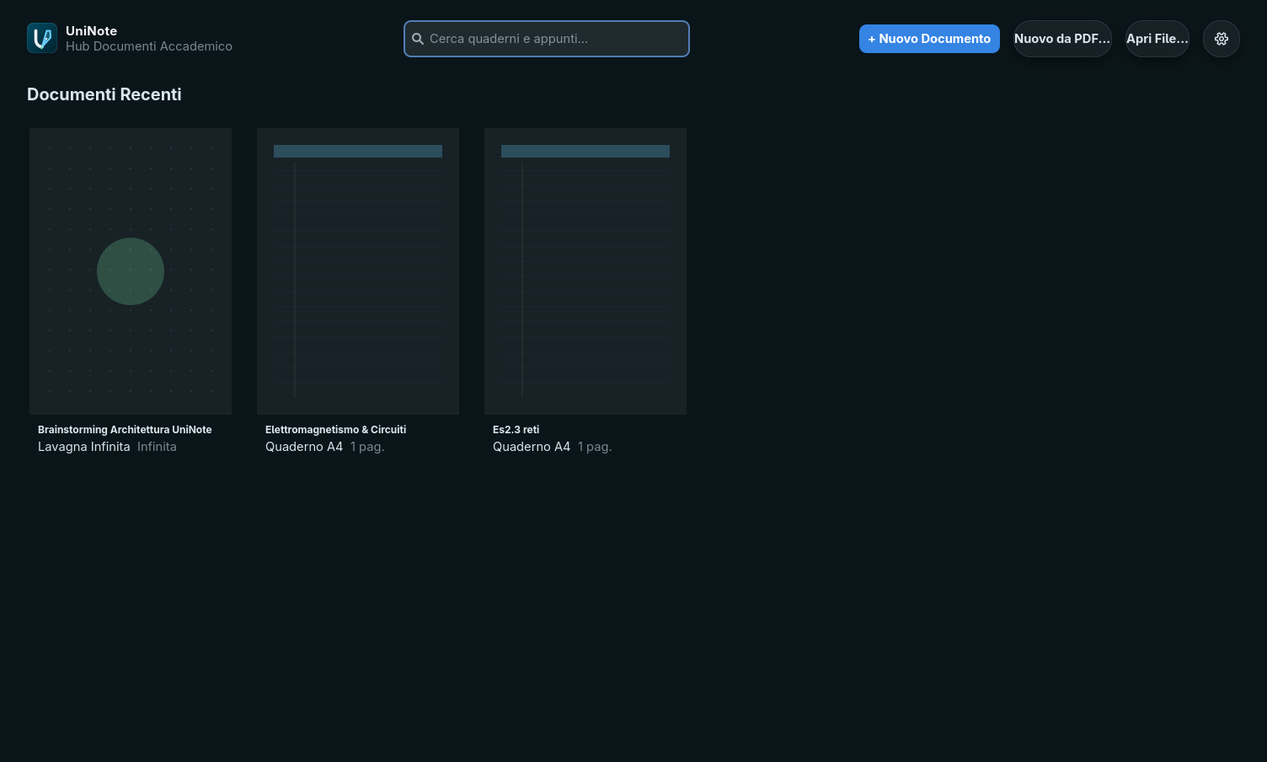
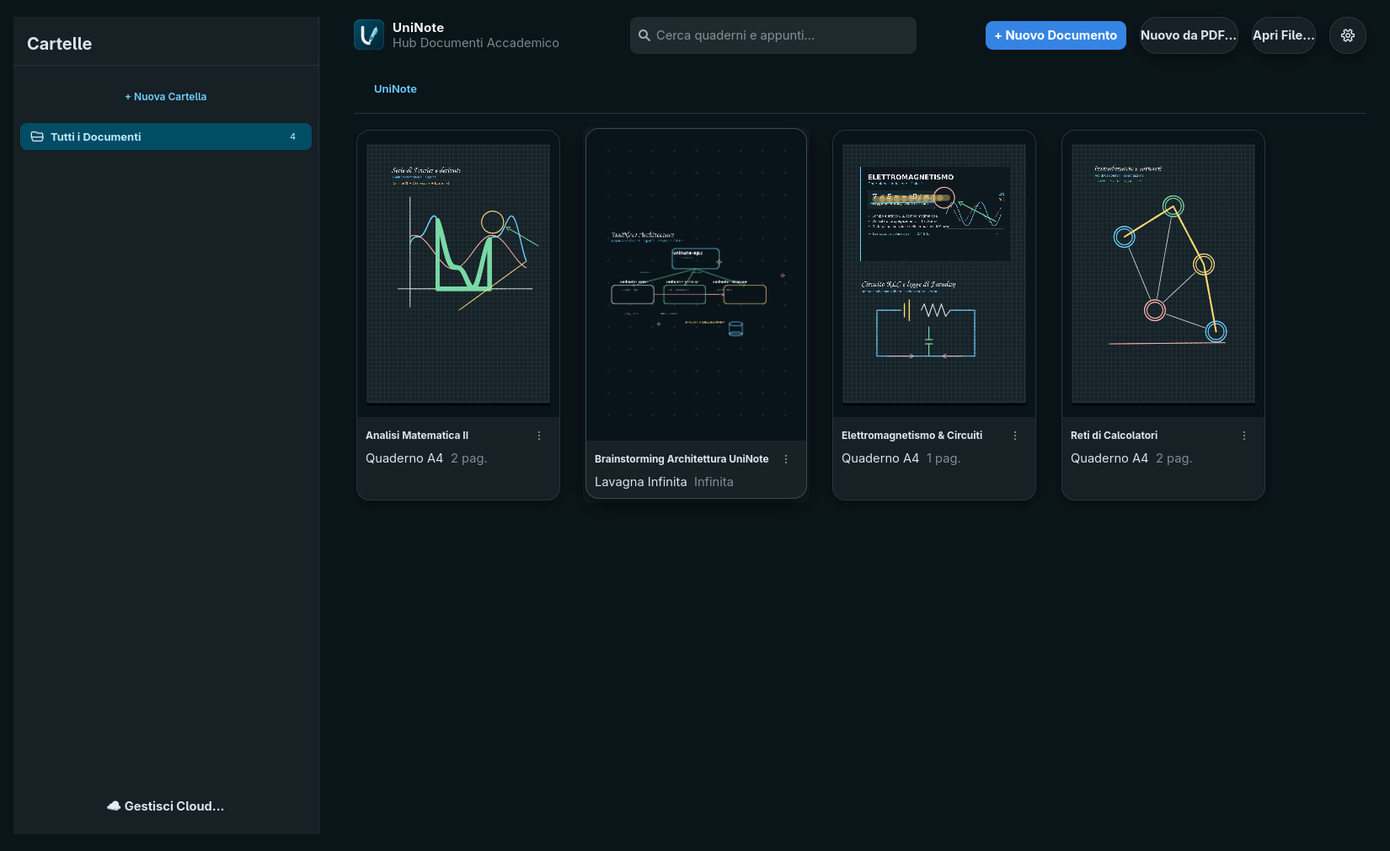
docs(readme): allinea documentazione e screenshot alla v0.5.2

diff --git a/README.md b/README.md
@@ -6,7 +6,7 @@
 
 **An Academic Freehand Note-Taking & Vector PDF Slide Annotation Suite for Linux**
 
-![License: GPL-3.0](https://img.shields.io/badge/License-GPL--3.0-blue.svg)![Rust](https://img.shields.io/badge/Rust-2021_Edition_\(MSRV_1.80+\)-orange.svg?logo=rust)![GUI](https://img.shields.io/badge/GUI-GTK4_%26_Libadwaita-4a90e2.svg?logo=gnome)![Version](https://img.shields.io/badge/Version-0.5.0-teal.svg)![Arch Linux](https://img.shields.io/badge/Arch_Linux-uninote-blue.svg?logo=archlinux)![Flatpak](https://img.shields.io/badge/Flatpak-org.uninote.UniNote-2b7bb9.svg?logo=flatpak)![CI](https://github.com/Loreexe/UniNote/actions/workflows/ci.yml/badge.svg)![Wayland](https://img.shields.io/badge/Display-Wayland_Native-purple.svg)![Architecture](https://img.shields.io/badge/Architecture-4_Decoupled_Crates-success.svg)
+![License: GPL-3.0](https://img.shields.io/badge/License-GPL--3.0-blue.svg)![Rust](https://img.shields.io/badge/Rust-2021_Edition_\(MSRV_1.80+\)-orange.svg?logo=rust)![GUI](https://img.shields.io/badge/GUI-GTK4_%26_Libadwaita-4a90e2.svg?logo=gnome)![Version](https://img.shields.io/badge/Version-0.5.2-teal.svg)![Arch Linux](https://img.shields.io/badge/Arch_Linux-uninote-blue.svg?logo=archlinux)![Flatpak](https://img.shields.io/badge/Flatpak-org.uninote.UniNote-2b7bb9.svg?logo=flatpak)![CI](https://github.com/Loreexe/UniNote/actions/workflows/ci.yml/badge.svg)![Wayland](https://img.shields.io/badge/Display-Wayland_Native-purple.svg)![Architecture](https://img.shields.io/badge/Architecture-4_Decoupled_Crates-success.svg)
 
 [Screenshots](#-screenshots--interface-showcase) •
 [Packaging & Install](#-packaging--quick-install) •
@@ -23,15 +23,17 @@
 
 **UniNote** is a native, high-performance Linux desktop application engineered specifically for university STEM lectures, mathematical derivations, academic research, and engineering design. Built from the ground up in **Rust (2021 Edition)**, **GTK 4 (v4.10+)**, **Libadwaita (0.7)**, and **Cairo**, UniNote bridges the divide between modern high-frequency digitizer hardware (Microsoft Pen Protocol 2.0/2.5, ELAN digitizers on 2-in-1 laptops, Wacom EMR/AES tablets) and the modern Linux Wayland desktop (Niri, GNOME, Sway, Hyprland).
 
-Unlike conventional note-taking suites that rely on heavy Electron/Chromium runtimes or lossy raster bitmap canvases, UniNote maintains an uncompromising **pure vector pipeline**:
+Unlike conventional note-taking suites that rely on heavy Electron/Chromium runtimes or lossy raster bitmap canvases, UniNote maintains an uncompromising **pure vector stroke pipeline** (raster storage is used only for explicitly pasted screenshots):
 
-- **120Hz Sub-Millisecond Inking Engine**: Predictive centripetal Catmull-Rom splines converted analytically to piecewise cubic Bézier curves, paired with an adaptive One Euro ($1€$) filter and dynamic pressure width synthesis.
+- **120Hz Sub-Millisecond Inking Engine**: Centripetal Catmull-Rom splines converted analytically to piecewise cubic Bézier curves, paired with an adaptive One Euro ($1€$) filter, zero-allocation Bézier caching, and dynamic pressure width synthesis.
 - **Hardware-Calibrated Digitizer Protection**: Strict physical impact latching (`pending_down`), instantaneous anti-hover cutoff upon stylus liftoff, capacitive blip rejection ($<0.065$ pressure peak), and a 4-state palm rejection machine with automatic proximity decay.
-- **Infinite Whiteboard & Discrete Metric A4 Notebooks**: Unbounded Cartesian $(-\infty, +\infty)$ ideation with dynamic procedural zoom-adaptive grid alongside calibrated A4 notebooks (Warm Natural White, 8mm Ruled with margin, 5mm Metric Grid).
+- **Infinite Whiteboard & Discrete Metric A4 Notebooks**: Unbounded Cartesian $(-\infty, +\infty)$ ideation with dynamic procedural zoom-adaptive grid alongside calibrated A4 notebooks (Warm Natural White, 8mm Ruled with margin, 5mm Metric Grid), continuous zoom from $25\%$ to $1000\%$.
 - **University PDF Document Flow**: Native non-destructive slide and handout annotation via `poppler-glib` with a dual-tier 120Hz Cairo cache (< 200 µs blit time) and typographic multi-page vector export via `cairo::PdfSurface`.
-- **Spatial Selection & Geometric Synthesis**: Freehand polygonal lasso and rectangular marquee with Ray-Casting containment, real-time 120Hz interactive drag translation, and atomic undo/redo commands.
-- **Crash-Resilient Storage**: Embedded SQLite 3 in Write-Ahead Logging (`WAL`) mode with asynchronous background thread persistence and single-file consolidated backup export via the SQLite Online Backup API.
-- **Dank Material Shell (DMS) / Material You (M3) Interface**: Full-bleed floating island UI with adaptive dark/light theme switching, Matugen vibrant color token synchronization, and pure vector Cairo iconography.
+- **Spatial Selection, Images & Geometric Manipulation**: Freehand lasso and rectangular marquee accelerated by a 2D R*-Tree, 8 interactive resize handles, affine scale/rotate, copy/cut/paste, and pasted PNG screenshots stored as hash-addressed `ItemKind::Image`.
+- **Eraser, Laser Pointer & Atomic Editing**: Analytical Bézier–circle stroke slicing with per-gesture undo batching, plus a volatile laser pointer whose plasma trail dissolves in 1.2 s without touching Undo/Redo, SQLite, or PDF export.
+- **Crash-Resilient Storage**: Embedded SQLite 3 in Write-Ahead Logging (`WAL`) mode with Schema V3 (`assets` hash-addressed table), asynchronous background thread persistence, prepared statements, and single-file consolidated backup export via the SQLite Online Backup API.
+- **Dashboard, Local Cloud Folders & Desktop Actions**: Folder sidebar with real filesystem subfolders, drag & drop between folders, Cairo thumbnails, instant search, local Nextcloud/Google Drive folders without credentials, and `--new-notebook` / `--new-whiteboard` launcher actions.
+- **Dank Material Shell (DMS) / Material You (M3) Interface**: Full-bleed floating island UI with adaptive dark/light theme switching, Matugen vibrant color token synchronization, dynamic pen dock, 5-tab Adwaita preferences, and pure vector Cairo iconography.
 
 ---
 
@@ -41,18 +43,23 @@ Unlike conventional note-taking suites that rely on heavy Electron/Chromium runt
 
 ### 1. Hub Accademico & Dashboard Documenti
 
-*Visualizzazione a schede con miniature Cairo vettoriali, ricerca istantanea e azioni rapide di creazione.*<br />
+*Sidebar cartelle, card con miniature Cairo vettoriali, ricerca istantanea, spostamento file e azioni rapide di creazione.*<br />
 <img src="docs/screenshots/01_dashboard.png" alt="UniNote Dashboard" width="90%" />
 
-### 2. Quaderno A4 Standard
+### 2. Quaderno A4, Slide PDF e Screenshot
 
-*Inchiostrazione fluida a 120Hz con spline Catmull-Rom, evidenziatore uniforme a passata singola e isola strumenti Dank Material Shell.*<br />
+*Inchiostrazione fluida a 120Hz con spline Catmull-Rom, evidenziatore, forme geometriche, annotazioni su slide e screenshot incollati come asset hash-addressed.*<br />
 <img src="docs/screenshots/02_quaderno.png" alt="UniNote Quaderno A4" width="90%" />
 
 ### 3. Lavagna Infinita
 
-*Spazio cartesiano continuo* $(-\infty, +\infty)$*, griglia procedurale dinamica e pulsante di ricentratura rapida all'origine.*<br />
+*Spazio cartesiano continuo* $(-\infty, +\infty)$*, griglia procedurale dinamica, diagrammi a più colori e pulsante di ricentratura rapida del contenuto.*<br />
 <img src="docs/screenshots/03_lavagna_infinita.png" alt="UniNote Lavagna Infinita" width="90%" />
+
+### 4. Impostazioni a 5 Schede & Scheda GitHub
+
+*Preferenze Adwaita per Hardware MPP, Aspetto DMS, Strumenti, Scorciatoie e GitHub, con opzioni avanzate, preset stilo e verifica aggiornamenti.*<br />
+<img src="docs/screenshots/04_impostazioni.png" alt="UniNote Impostazioni" width="78%" />
 
 </div>
 
@@ -64,16 +71,22 @@ UniNote is organized as a Cargo virtual workspace consisting of **four decoupled
 
 ```
 UniNote/
-├── Cargo.toml                      # Workspace manifest (Rust 2021, GPL-3.0, Version 0.2.1)
+├── Cargo.toml                      # Workspace manifest (Rust 2021, GPL-3.0, Version 0.5.2)
 ├── LICENSE                         # Verbatim GNU General Public License v3.0
+├── README.md                       # This document
+├── data/                           # FreeDesktop XDG assets (.desktop, metainfo, MIME, hicolor icons)
+├── packaging/                      # AUR recipes, Flatpak manifest and release-notes/vX.Y.Z.md
+├── scripts/                        # Icon generation and Arch/Flatpak packaging helpers
+├── docs/                           # README branding and application screenshots
+├── .github/workflows/              # CI (fmt, clippy, headless tests) and release pipeline
 ├── design/                         # Dank Material Shell (DMS) UI/UX prototyping (FigCraft)
 │   ├── uninote.figcraft            # Native vector UI design document
 │   └── previews/                   # 2x HiDPI preview renders
 └── crates/
-    ├── uninote-core/               # Mathematical document model & coordinate spaces
-    ├── uninote-stroke/             # Inking physics, filtering, palm rejection & selection
-    ├── uninote-storage/            # SQLite WAL persistence & asynchronous worker
-    └── uninote-app/                # GTK4/Libadwaita shell, Cairo canvas, PDF & DMS UI
+    ├── uninote-core/               # Document model, R*-Tree spatial index, viewport and atomic commands
+    ├── uninote-stroke/             # Catmull-Rom/Bézier geometry, filters, palm rejection, slicing, selection
+    ├── uninote-storage/            # SQLite WAL persistence (Schema V3 + assets) and asynchronous worker
+    └── uninote-app/                # GTK4/Libadwaita shell, Cairo canvas, PDF, images, dashboard & settings
 ```
 
 ### Data Flow & Component Topology
@@ -84,9 +97,10 @@ UniNote/
 |                               (uninote-app)                                   |
 |  - GtkApplication / Libadwaita (DMS Floating Islands & Matugen Tokens)        |
 |  - 120Hz Continuous Cairo Canvas & Procedural Zoom-Adaptive Whiteboard Grid   |
-|  - Academic Dashboard (GtkFlowBox Grid, Cairo Thumbnails 240x340 px)          |
-|  - Multi-Tab Settings Window (AdwPreferencesWindow: Hardware, DMS, Shapes)    |
-|  - Poppler PDF Engine (Dual-Tier Cache, Sharpness at Rest, Vector PDF Export) |
+|  - Executive R*-Tree Culling (>90% off-screen) & Zero-Alloc Bézier Rendering  |
+|  - Academic Dashboard (Folder Sidebar, GtkFlowBox, Cairo Thumbnails 240x340)  |
+|  - 5-Tab Settings Window (Hardware MPP, DMS, Tools, Shortcuts, GitHub)        |
+|  - Poppler PDF Engine, Image Cache and Volatile LaserTrail                    |
 +---------------------------------------+---------------------------------------+
                                         |
                 +-----------------------+-----------------------+
@@ -98,8 +112,9 @@ UniNote/
 |    (Notebook A4 / Whiteboard) |               |  - One Euro Filter (1€)       |
 |  - Continuous Viewport & Pan  |               |  - Palm Rejection Machine     |
 |  - Affine Coordinate Spaces   |               |  - MPP Anti-Hover & Anti-Blip |
-|  - Monotonic Atomic Commands  |               |  - Perfect Shape Synthesis    |
-|    (DocCommand::MoveItems)    |               |  - SelectionEngine (Ray-Cast) |
+|  - R*-Tree PageSpatialIndex   |               |  - Analytical Bézier Slicing  |
+|  - Atomic Commands (Move,     |               |  - Perfect Shape Synthesis    |
+|    Paste, Transform, Slice)   |               |  - SelectionEngine (Ray-Cast) |
 +---------------+---------------+               +---------------+---------------+
                 |                                               |
                 +-----------------------+-----------------------+
@@ -108,9 +123,9 @@ UniNote/
 +-------------------------------------------------------------------------------+
 |                                uninote-storage                                |
 |  - SQLite 3 Engine (WAL Mode, synchronous = NORMAL, busy_timeout = 5000)      |
-|  - Schema V2 (Background Extra, Metadata Format, Document Format Migration)   |
-|  - Dedicated Background Thread Worker (Non-blocking Graphics Pipeline)        |
-|  - SQLite Online Backup API for Atomic Consolidated .uninote Exports          |
+|  - Schema V3 (assets hash-addressed, metadata, V1→V3 migrations)              |
+|  - Prepared Statements, Buffer Reuse & Immediate Transactions                 |
+|  - Dedicated Background Worker + Online Backup API for .uninote Exports       |
 +-------------------------------------------------------------------------------+
 ```
 
@@ -127,15 +142,19 @@ UniNote/
   - *Anti-Hover Liftoff Cutoff*: Drops air samples immediately upon pressure falling below threshold, preventing diagonal trailing spikes on detached letters (`E`, `T`, `F`).
   - *Anti-Blip Capacitive Filter*: Discards spurious capacitive touch noise with pressure peaks below $0.065$.
 - **Robust Palm Rejection State Machine**: 4-state engine (`Idle`, `PenProximity`, `PenDrawing`, `PenCooldown`) with automatic proximity decay (300ms timeout) and active/suppressed touch slot isolation.
-- **Live Diagnostic Telemetry HUD (**`F12`**)**: Real-time display of digitizer sampling rate (Hz), compositor framerate (FPS), Cairo vector draw latency ($\mu\text{s}$), instantaneous pressure, and rejected sample count.
+- **Zero-Allocation Bézier Cache**: `cached_bbox` and `cached_bezier` are computed once at stroke completion and borrowed by the Cairo render loop, eliminating per-frame heap allocations during continuous 120Hz drawing.
+- **Live Diagnostic Telemetry HUD (**`F12`**)**: Real-time display of digitizer sampling rate (Hz), compositor framerate (FPS), Cairo vector draw latency ($\mu\text{s}$), instantaneous pressure, rejected sample count, visible vs. total strokes, and culling percentage. The HUD is zero-overhead when hidden.
 
-### 2. Spatial Selection & Geometric Manipulation
+### 2. Spatial Selection, Images & Geometric Manipulation
 
-- **Dual Selection Modalities**: Freehand closed-loop **Lasso** and diagonal **Rectangular Marquee** (`ActiveTool::Select`).
+- **Dual Selection Modalities**: Freehand closed-loop **Lasso** and diagonal **Rectangular Marquee** (`ActiveTool::Select`), pre-filtered through the page's 2D R*-Tree.
 - **Ray-Casting Algorithm**: Jordan curve theorem (Even-Odd parity) testing stroke point clouds: a stroke is captured if $\ge 80\%$ of its points fall inside the polygon or if its bounding box is fully enclosed.
-- **Live Cyan Dashed Bounding Box (**`#6DD2FF`**)**: Renders with sub-pixel sharpness and includes a central centroid grab handle for drag translation.
-- **Interactive Drag Translation at 120Hz**: Selected strokes translate smoothly in real time without floating-point precision drift.
-- **Atomic Undo/Redo Integration**: Drag translation commits an atomic `DocCommand::MoveItems` with invertible forward and reverse displacement vectors $(\Delta x, \Delta y)$, fully undoable via `Ctrl+Z`.
+- **Live Cyan Dashed Bounding Box (**`#6DD2FF`**)**: Renders with sub-pixel sharpness and includes **8 interactive handles** (4 circular corner nodes and 4 median pills) for proportional or free resize.
+- **Interactive Drag Translation at 120Hz**: Selected strokes and images translate smoothly in real time without floating-point precision drift.
+- **Affine Transformations & Style Mutation**: `DocCommand::TransformItems` applies scale/rotation with opposite-corner anchoring, while `DocCommand::ModifyItemsStyle` recolors or reweights selected strokes; both are fully undoable.
+- **Clipboard & Context Menu**: `Ctrl+C` / `Ctrl+X` / `Ctrl+V` move strokes and images between documents through an in-memory cache and `GdkClipboard` IPC, with cascading paste offsets. Right-click or long-press opens a context menu with z-order (move above/below), copy, duplicate, and delete.
+- **Screenshot & Image Items**: PNG images pasted from the clipboard become `ItemKind::Image` items backed by deduplicated SHA-256 assets, selectable with the same 8 handles and included in thumbnails and PDF export.
+- **Atomic Undo/Redo Integration**: Translation, transform, paste, style mutation, and batch deletion commit reversible `DocCommand` variants, fully undoable via `Ctrl+Z`.
 - **Rapid Batch Deletion**: Instant deletion of all selected items via the `Delete` or `Backspace` key.
 
 ### 3. Infinite Whiteboard & Calibrated A4 Notebooks
@@ -150,26 +169,33 @@ UniNote/
     - *Mathematical Grid*: 5mm ($14.17\,\text{pt}$) metric grid with sub-pixel line calibration.
 - **Infinite Whiteboard Format**:
   - Unbounded Cartesian plane $(x, y) \in (-\infty, +\infty)$ without discrete page boundaries.
-  - Procedural dynamic zoom-adaptive Cairo grid/dots that scale and fade seamlessly across zoom octaves ($20\% \text{--} 500\%$).
+  - Procedural dynamic zoom-adaptive Cairo grid/dots that scale and fade seamlessly across zoom octaves ($25\% \text{--} 1000\%$).
   - One-click *Center Content* command to fit the global bounding box of all drawn strokes to the current window.
   - Dynamic tight bounding-box calculation for vector PDF export of unbounded whiteboard diagrams.
+- **Precision Tools & Volatile Laser**:
+  - Continuous zoom from **25% to 1000%** (10x) with touch, trackpad, and bottom-dock controls.
+  - Pen caliber from **0.25 pt to 12 pt**, with a dynamic `dot_max_travel` threshold that preserves intentional accents, apostrophes, and short dashes on fine tips (BUG-002 fix).
+  - Eraser can remove a whole stroke or slice only the intersected Bézier segments, with a live circular radius indicator and a single undo step per gesture.
+  - **Volatile Laser Pointer**: a plasma trail that dissolves in 1.2 s, with a 1.5–20 pt width popover; it never enters Undo/Redo, SQLite, thumbnails, or PDF export.
 
 ### 4. Academic Dashboard & Settings Hub
 
-- **UniNoteDashboard (**`GtkFlowBox`**)**:
-  - Responsive visual card grid displaying recent documents.
-  - Real-time Cairo vector thumbnails ($240 \times 340\,\text{px}$) with local disk caching.
-  - Semantic format badges (*Quaderno A4* vs *Lavagna Infinita*).
+- **UniNoteDashboard (**`GtkFlowBox` + Folder Sidebar**)**:
+  - Responsive visual card grid displaying documents and folders with a Nautilus-style split sidebar.
+  - Real-time Cairo vector thumbnails ($240 \times 340\,\text{px}$) with theme-aware dark/light disk caching, including pasted images.
+  - Semantic format badges (*Quaderno A4* vs *Lavagna Infinita*), page count, and modification data.
   - Instant live search bar filtering notebooks by title or modification timestamp.
-  - Dedicated `$XDG_DOCUMENTS_DIR/UniNote` default notebook workspace with automatic directory provisioning.
+  - Real filesystem subfolders under `$XDG_DOCUMENTS_DIR/UniNote` with breadcrumbs, contextual creation, rename/duplicate/delete, and drag & drop between folders.
+  - Local Nextcloud and Google Drive folders synchronized by the desktop client, with no credentials, tokens, or network calls stored by UniNote.
   - Sanitized recent files history (up to 30 items) with automatic pruning of removed files.
 - **CreateDocumentDialog**:
   - Modal dialog with rich visual cards for selecting between Notebook A4 and Infinite Whiteboard modes.
 - **UniNoteSettingsWindow (**`AdwPreferencesWindow`**)**:
-  - *Hardware Digitizer & Stylus Tab*: Contact threshold slider (default 0.05), live pressure testing bar, sensitivity curve selector (Linear, Soft, Hard), anti-hover toggle, 1€ filter tuning, palm rejection timeouts, and F12 HUD overlay toggle.
-  - *Appearance & DMS Tab*: Desktop theme sync, OLED Pure Black (`#0A151A`), Natural Light theme, ITU-R Rec. 709 perceptual ink adaptation toggle, ruling contrast, and floating bar opacity.
-  - *Tools & Shapes Tab*: Line orthogonal snap angle (default 8°), Ramer-Douglas-Peucker (RDP) polygon tolerance, rectangle/ellipse 90° snap (12°), and pen dock color presets.
-  - *Shortcuts & Stylus Buttons Tab*: Keybinding customization and stylus barrel button mapping (Eraser, Lasso, Color Picker).
+  - *Hardware Digitizer & Stylus Tab*: Quick presets and an optional **Advanced Options** toggle that reveals contact threshold slider (default 0.05), live pressure test bar, raw pressure curve, anti-hover/anti-blip filters, 1€ filter tuning, palm rejection timeouts, and F12 HUD toggle.
+  - *Appearance & DMS Tab*: System/Light/Dark theme selector, OLED Pure Black (`#0A151A`), Natural Light theme, ITU-R Rec. 709 perceptual ink adaptation toggle, dark ruling contrast, and floating bar opacity.
+  - *Tools & Shapes Tab*: Line orthogonal snap angle (default 8°), Ramer-Douglas-Peucker (RDP) polygon tolerance, rectangle/ellipse 90° snap, and pen dock color presets.
+  - *Shortcuts & Stylus Buttons Tab*: Keybinding customization and stylus barrel button mapping (eraser, lasso, color picker).
+  - *GitHub Tab*: Official repository, issue tracker, GPL-3.0 license link, dynamic version badge, and a safe update check against the public GitHub Releases API.
 
 ### 5. University PDF Document Flow
 
@@ -180,23 +206,34 @@ UniNote/
 - **Dual-Tier 120Hz Cairo Cache Architecture**:
   - *Tier 1 (RAM Raster Surface)*: 2x HiDPI raster cache with LRU eviction for instantaneous blitting (< 200 µs) during rapid panning and zooming.
   - *Tier 2 (Poppler Vector Handles)*: Retains live vector page handles for lossless scaling.
-  - *Sharpness at Rest*: Automatically re-rasterizes at high resolutions (up to 5x native scale) as soon as pan/zoom gestures settle.
-- **High-Definition Tipographic Vector PDF Export (**`cairo::PdfSurface`**)**:
-  - Generates multi-page vector PDFs preserving native Poppler backgrounds and student freehand annotations.
+  - *Explicit High-Zoom Refresh*: `PdfCacheManager::update_raster_scale` can re-rasterize a page at up to 10x native scale when a sharper high-zoom view is required; normal rendering uses the 2x HiDPI cache.
+- **High-Definition Typographic Vector PDF Export (**`cairo::PdfSurface`**)**:
+  - Generates multi-page vector PDFs preserving native Poppler backgrounds and student freehand annotations, including pasted screenshots and image items.
   - Freehand strokes are written as pure cubic Bézier vectors (`cr.curve_to`) preserving dynamic pressure widths, colors, and highlighter transparency ($\alpha = 0.38$). Zero rasterization or blurriness at 300+ DPI.
+  - Light/Dark export modes preserve perceptive contrast for light inks and highlighters; multipage notebooks no longer produce blank pages, and pasted images are re-rendered into every exported page.
 
 ### 6. Dank Material Shell (DMS) & Dynamic Theming
 
 - **Ergonomic Floating Island Layout**:
-  - *Floating Inking Island (Top Pill)*: 9 quick-access controls (Undo, Redo, Stroke Width popover with live Cairo preview and 5 presets, Pen, Eraser, Highlighter, Text, Straight Line, Shape Recognition).
-  - *Floating Pen Dock (Left Margin)*: Vertical pill with interactive drag handle and 5 customizable ink slots (Electric Cyan `#6DD2FF`, Warm White `#D9E4EB`, Coral `#FFB4AB`, Mint Green `#79D9A5`, Academic Gold `#FFD875`) plus a color picker palette dialog (`+`).
-  - *Floating Bottom Navigation Dock*: Page stepper (`‹ Foglio X di Y ›`), `+ Pagina` button, paper background selector, and zoom controls.
+  - *Floating Inking Island (Top Pill)*: Undo, Redo, Stroke Width popover with live Cairo preview and 5 presets, plus 7 tools (Pen, Eraser, Highlighter, Selection, Text/Formula, Straight Line, Laser Pointer) and dedicated eraser/laser width popovers.
+  - *Floating Pen Dock (Left Margin)*: Vertical pill with interactive 120Hz drag handle, customizable ink slots (Electric Cyan `#6DD2FF`, Warm White `#D9E4EB`, Coral `#FFB4AB`, Mint Green `#79D9A5`, Academic Gold `#FFD875`), color picker dialog (`+`), and safe slot removal that always preserves at least one pen.
+  - *Floating Bottom Navigation Dock*: Page stepper (`‹ Foglio X di Y ›`) or *Center Content* for whiteboards, `+ Pagina` button, paper background selector, and zoom controls (25%–1000%).
 - **Matugen M3 Dynamic Color Synchronization**:
   - Automatically matches system-wide Material You / Dank Material Shell themes (`~/.config/gtk-4.0/dank-colors.css`).
   - *Dark Canvas*: Deep slate background (`#0A151A`), dark pages (`#172126`), calibrated soft cyan rulings, and ITU-R Rec. 709 luminance-adapted inks.
-  - *Light Canvas*: Natural warm background (`#FAF9F6`), classic notebooks lines, and deep contrast inks.
+  - *Light Canvas*: Natural warm background (`#FAF9F6`), classic notebook lines, and deep contrast inks.
+  - Theme changes propagate live to the canvas, dashboard thumbnails, floating islands, popovers, menus, and the settings window.
 - **Pure Vector Cairo Iconography (**`icons.rs`**)**:
-  - All icons (pen, eraser, highlighter, shapes, lasso, settings gear, brand squircle logo) are rendered directly via Cairo vector instructions, eliminating external SVG files, librsvg runtime overhead, and scaling artifacts.
+  - All icons (pen, eraser, highlighter, lasso, laser sword, settings gear, folder tree, brand squircle logo) are rendered directly via Cairo vector instructions, eliminating external SVG files, librsvg runtime overhead, and scaling artifacts.
+
+### 7. Advanced Editing, Portability & Storage
+
+- **Portable `.uninote` Documents**: A single SQLite WAL file embeds pages, strokes, metadata, and deduplicated image assets, so screenshots travel with the notebook. PDF-backed pages keep a non-destructive reference to the original PDF file, which must remain accessible on the target device.
+- **Schema V3 & Assets**: Transactional migrations from V1/V2 to `SCHEMA_VERSION = 3` add the `assets (hash, mime_type, data, created_at)` table; images are stored once per SHA-256 hash and referenced by `ItemKind::Image`.
+- **High-Throughput Persistence**: `prepare_cached` statements, `TransactionBehavior::Immediate`, reusable JSON buffers, pre-allocated loads, and a dedicated background worker save 10,000 strokes in roughly 33 ms while keeping the 120Hz UI responsive.
+- **Portable Backup**: The SQLite Online Backup API produces a consolidated, self-contained copy of the current document on demand.
+- **Release-Minded Builds**: The `academic-dataset` feature flag excludes the deterministic 1k/10k/50k stroke generator from release binaries (PERF-001), while multi-row ordered loading reduces SQL round-trips (PERF-002).
+- **Desktop Integration**: The `.desktop` file exposes quick actions for new notebooks and whiteboards (`--new-notebook`, `--new-whiteboard`), and XDG icons/metainfo are installed by the Arch, Flatpak, and tarball packages.
 
 ---
 
@@ -207,13 +244,13 @@ UniNote/
 Installa direttamente il pacchetto binario `.pkg.tar.zst` precompilato scaricato dalle [Releases](https://github.com/Loreexe/UniNote/releases):
 
 ```bash
-sudo pacman -U uninote-0.5.0-1-x86_64.pkg.tar.zst
+sudo pacman -U uninote-0.5.2-1-x86_64.pkg.tar.zst
 ```
 
 Oppure compila e installa in locale dal repository tramite `makepkg`:
 
 ```bash
-# Versione stabile (v0.5.0):
+# Versione stabile (v0.5.2):
 cd packaging/aur/uninote && makepkg -si
 
 # Oppure versione di sviluppo (branch main):
@@ -234,7 +271,20 @@ Ed eseguilo con:
 flatpak run org.uninote.UniNote
 ```
 
-### 3. Installazione Locale di Sistema da Sorgenti
+### 3. Portable Tarball (Linux x86_64)
+
+Scarica `uninote-v0.5.2-linux-x86_64.tar.gz` (e il relativo `.sha256`) dalle [Releases](https://github.com/Loreexe/UniNote/releases), poi installa con lo script incluso:
+
+```bash
+sha256sum -c uninote-v0.5.2-linux-x86_64.tar.gz.sha256
+tar -xzf uninote-v0.5.2-linux-x86_64.tar.gz
+cd uninote-v0.5.2-linux-x86_64
+./install.sh          # PREFIX=/usr/local per impostazione predefinita
+```
+
+Il tarball include il binario, le icone XDG, il file `.desktop`, il metainfo e la licenza.
+
+### 4. Installazione Locale di Sistema da Sorgenti
 
 Se hai clonato il repository, puoi installarlo direttamente in `/usr/local`:
 
@@ -329,10 +379,17 @@ cargo build --workspace --release
 
 ### Run the Full Automated Test Suite
 
-UniNote includes **475 automated unit, adversarial, stress, and end-to-end integration tests**:
+UniNote includes **1160 automated unit, adversarial, stress, benchmark, and end-to-end integration tests** across the four crates:
 
 ```bash
+# Run the full workspace suite:
 cargo test --workspace
+
+# Run the deterministic headless Cairo benchmarks (render, pan/zoom, eraser, selection, WAL):
+cargo test -p uninote-app --test m5_deterministic_benchmarks -- --nocapture
+
+# Reproduce the CI run without an active display server:
+xvfb-run --auto-servernum cargo test --workspace
 ```
 
 ### Code Formatting & Static Analysis
@@ -355,17 +412,21 @@ cargo clippy --workspace --all-targets -- -D warnings
 |                             | `Ctrl + O`                      | Open file dialog (`.uninote` or `.pdf`)                          |
 |                             | `Ctrl + S`                      | Save current notebook to disk                                    |
 |                             | `Ctrl + H`                      | Return to Academic Dashboard                                     |
-| **History & Editing**       | `Ctrl + Z`                      | Undo last stroke, shape, or selection translation                |
+| **History & Editing**       | `Ctrl + Z`                      | Undo last stroke, slice, paste, transform, or gesture             |
 |                             | `Ctrl + Y` / `Ctrl + Shift + Z` | Redo last undone action                                          |
+|                             | `Ctrl + C` / `Ctrl + X`         | Copy or cut selected strokes and images                          |
+|                             | `Ctrl + V`                      | Paste strokes/images or a PNG screenshot from the clipboard       |
 |                             | `Delete` / `Backspace`          | Batch delete all currently selected items                        |
-| **Viewport & Navigation**   | `Pinch-to-Zoom`                 | Smooth two-finger continuous zoom ($20\% \text{--} 500\%$)       |
+|                             | `Right Click` / `Long Press`    | Context menu: z-order, copy, duplicate, delete                    |
+| **Viewport & Navigation**   | `Pinch-to-Zoom`                 | Smooth two-finger continuous zoom ($25\% \text{--} 1000\%$)      |
 |                             | `Two-Finger Drag`               | Fluid two-finger pan across continuous canvas                    |
 |                             | `Ctrl + 0`                      | Reset viewport zoom to $100\%$                                   |
 |                             | `Trackpad Two-Finger Scroll`    | Smooth vertical & horizontal canvas panning                      |
 | **Tools & Stylus**          | `Stylus Barrel Button 1`        | Instant eraser toggle or selection tool                          |
 |                             | `Stylus Eraser Tip`             | Hardware eraser automatic detection                              |
 |                             | `Left Dock Handle Drag`         | Fluidly reposition pen dock along the left edge                  |
-| **Diagnostics & Telemetry** | `F12`                           | Toggle diagnostic HUD overlay (Hz, FPS, $\mu\text{s}$, pressure) |
+|                             | `Eraser / Laser Popovers`       | Choose whole-stroke vs. segment eraser, or laser width 1.5–20 pt |
+| **Diagnostics & Telemetry** | `F12`                           | Toggle HUD (Hz, FPS, $\mu\text{s}$, pressure, culling)           |
 
 ---
 
@@ -409,7 +470,7 @@ $$
 f_c = f_{c,\min} + \beta \|\dot{x}\|
 $$
 
-where $f_{c,\min} = 1.0\,\text{Hz}$ filters resting tremor, and $\beta = 0.007$ expands filter bandwidth proportionally to stroke speed.
+where the default positional filter uses $f_{c,\min} = 4.5\,\text{Hz}$ to suppress resting tremor, and $\beta = 0.04$ expands filter bandwidth proportionally to stroke speed.
 
 ### 3. Ray-Casting Algorithm for Freehand Selection
 
@@ -433,7 +494,39 @@ $$
 Y = 0.2126\,R + 0.7152\,G + 0.0722\,B
 $$
 
-Inks with low luminance ($Y < 0.28$) and low chroma are non-destructively projected to high-contrast ice white (`#ECEFF4`), while saturated dark chromatic inks are mapped to bright pastel equivalents.
+Inks with low luminance ($Y < 0.35$) and low chroma ($< 0.12$) are non-destructively projected to high-contrast ice white (`#ECEFF4`), while saturated dark chromatic inks are lifted to bright pastel equivalents. On light sheets, off-white inks are inverted to graphite (`#172126`) so annotations remain legible in both themes.
+
+### 5. Analytical Bézier–Circle Slicing for the Eraser
+
+Each cubic segment is written in Bernstein form:
+
+$$
+B(t) = (1-t)^3 P_0 + 3(1-t)^2 t P_1 + 3(1-t)t^2 P_2 + t^3 P_3, \quad t \in [0,1]
+$$
+
+For an eraser circle centered at $C$ with radius $r$, intersections satisfy:
+
+$$
+f(t) = \|B(t) - C\|^2 - r^2 = 0
+$$
+
+UniNote brackets each root on the chord, refines it with Newton–Raphson:
+
+$$
+t_{n+1} = t_n - \frac{f(t_n)}{f'(t_n)}
+$$
+
+and splits the curve with de Casteljau's algorithm at the refined parameter, producing two exact sub-curves with preserved pressure samples and Bézier caches. An entire eraser drag is recorded as one atomic undo batch.
+
+### 6. R*-Tree Culling and Affine Bézier Invariance
+
+Strokes and images are indexed by their axis-aligned bounding boxes in an `rstar` R*-Tree. A Cairo frame queries only the boxes intersecting the viewport rectangle:
+
+$$
+\mathcal{V} = \{ i \mid \mathrm{AABB}(i) \cap \mathrm{Viewport} \neq \varnothing \}
+$$
+
+yielding $O(\log N + k)$ queries instead of $O(N)$ scanning, and typically discarding more than $90\%$ of items on dense zoomed documents. Because cubic Bézier curves are affine-invariant in their control points, translation, scaling, and rotation are applied directly to $P_0, P_1, P_2, P_3$ with zero re-fitting and no change in curve shape.
 
 ---
 
@@ -466,7 +559,7 @@ If you use UniNote in your university coursework, academic research, or software
 @software{uninote2026,
   author       = {{UniNote Developers}},
   title        = {{UniNote: An Academic Freehand Note-Taking and Vector PDF Annotation Suite for Linux}},
-  version      = {0.5.0},
+  version      = {0.5.2},
   year         = {2026},
   url          = {https://github.com/Loreexe/UniNote},
   license      = {GPL-3.0}
